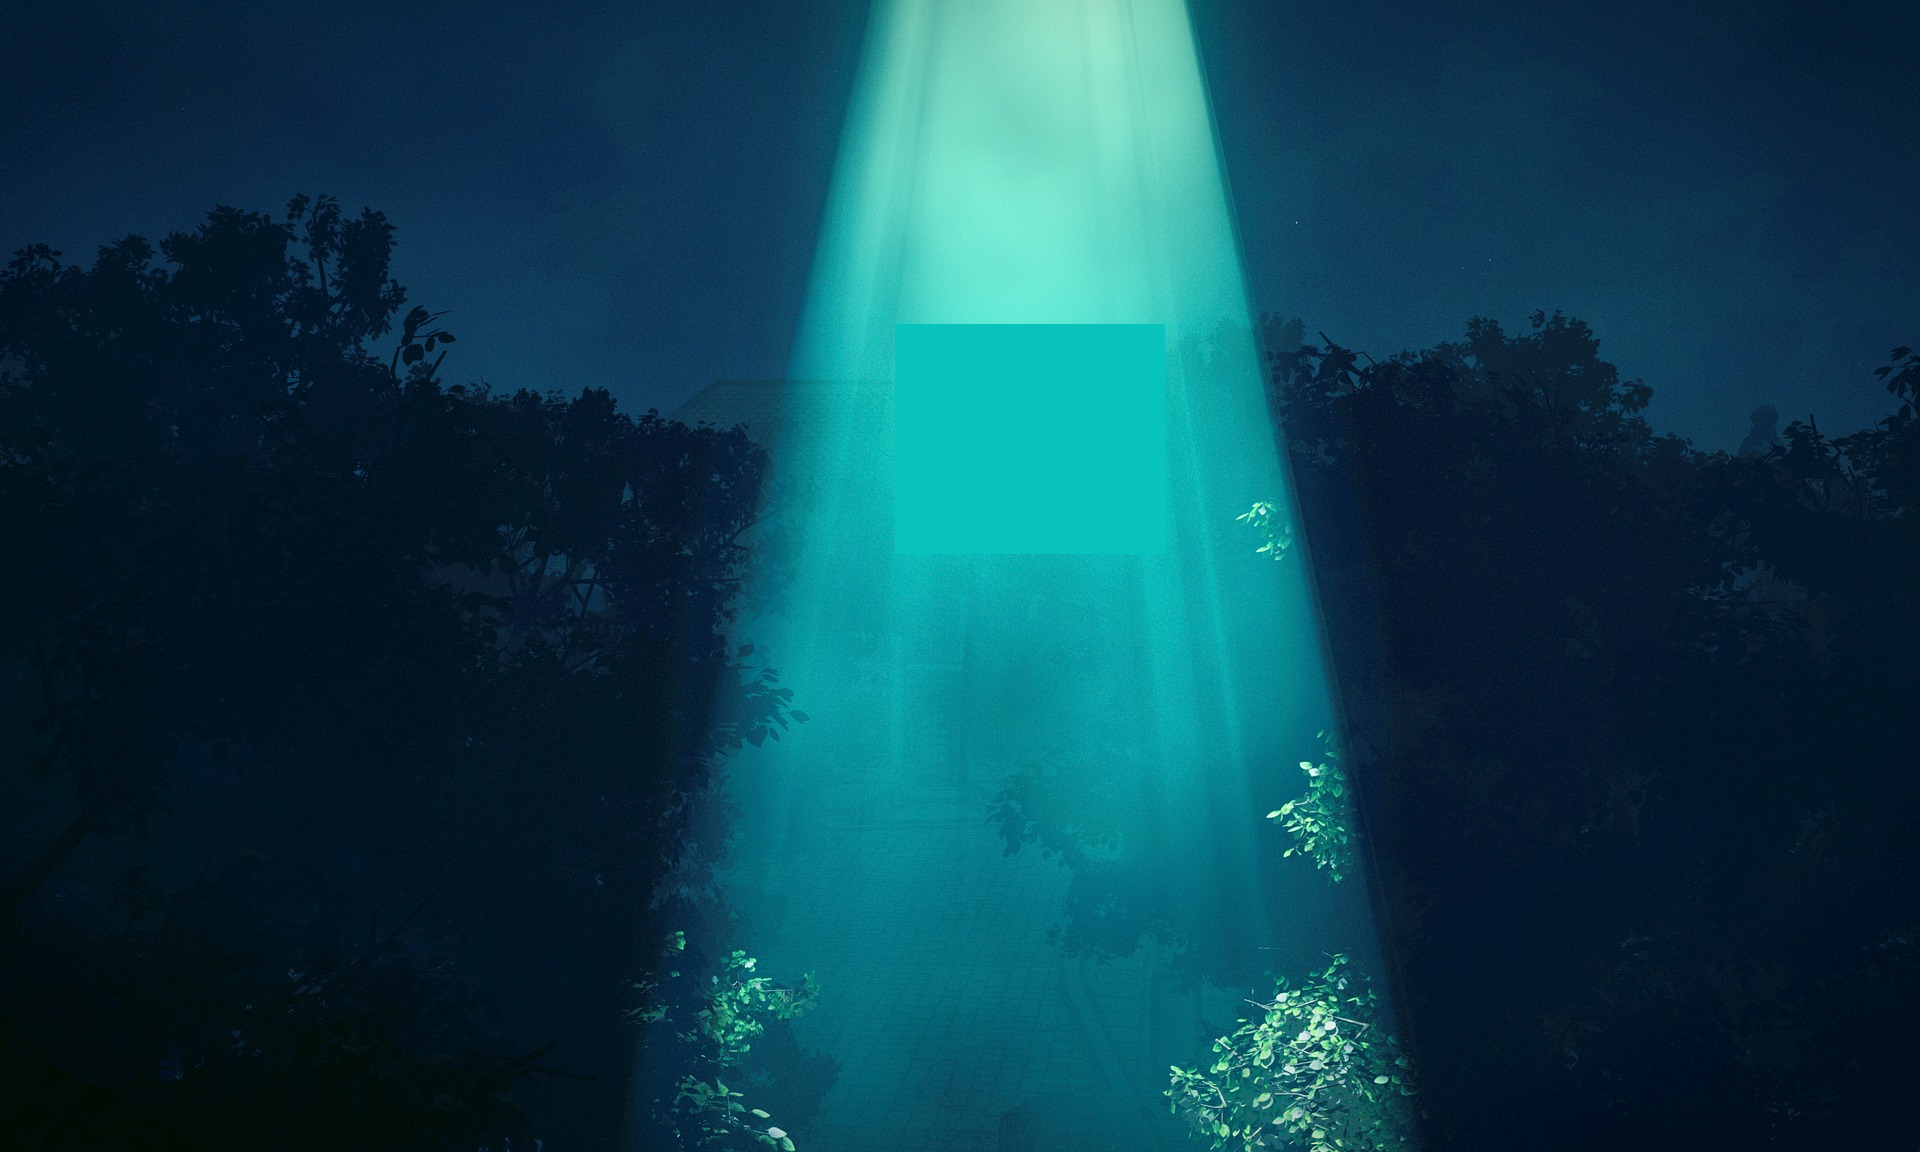
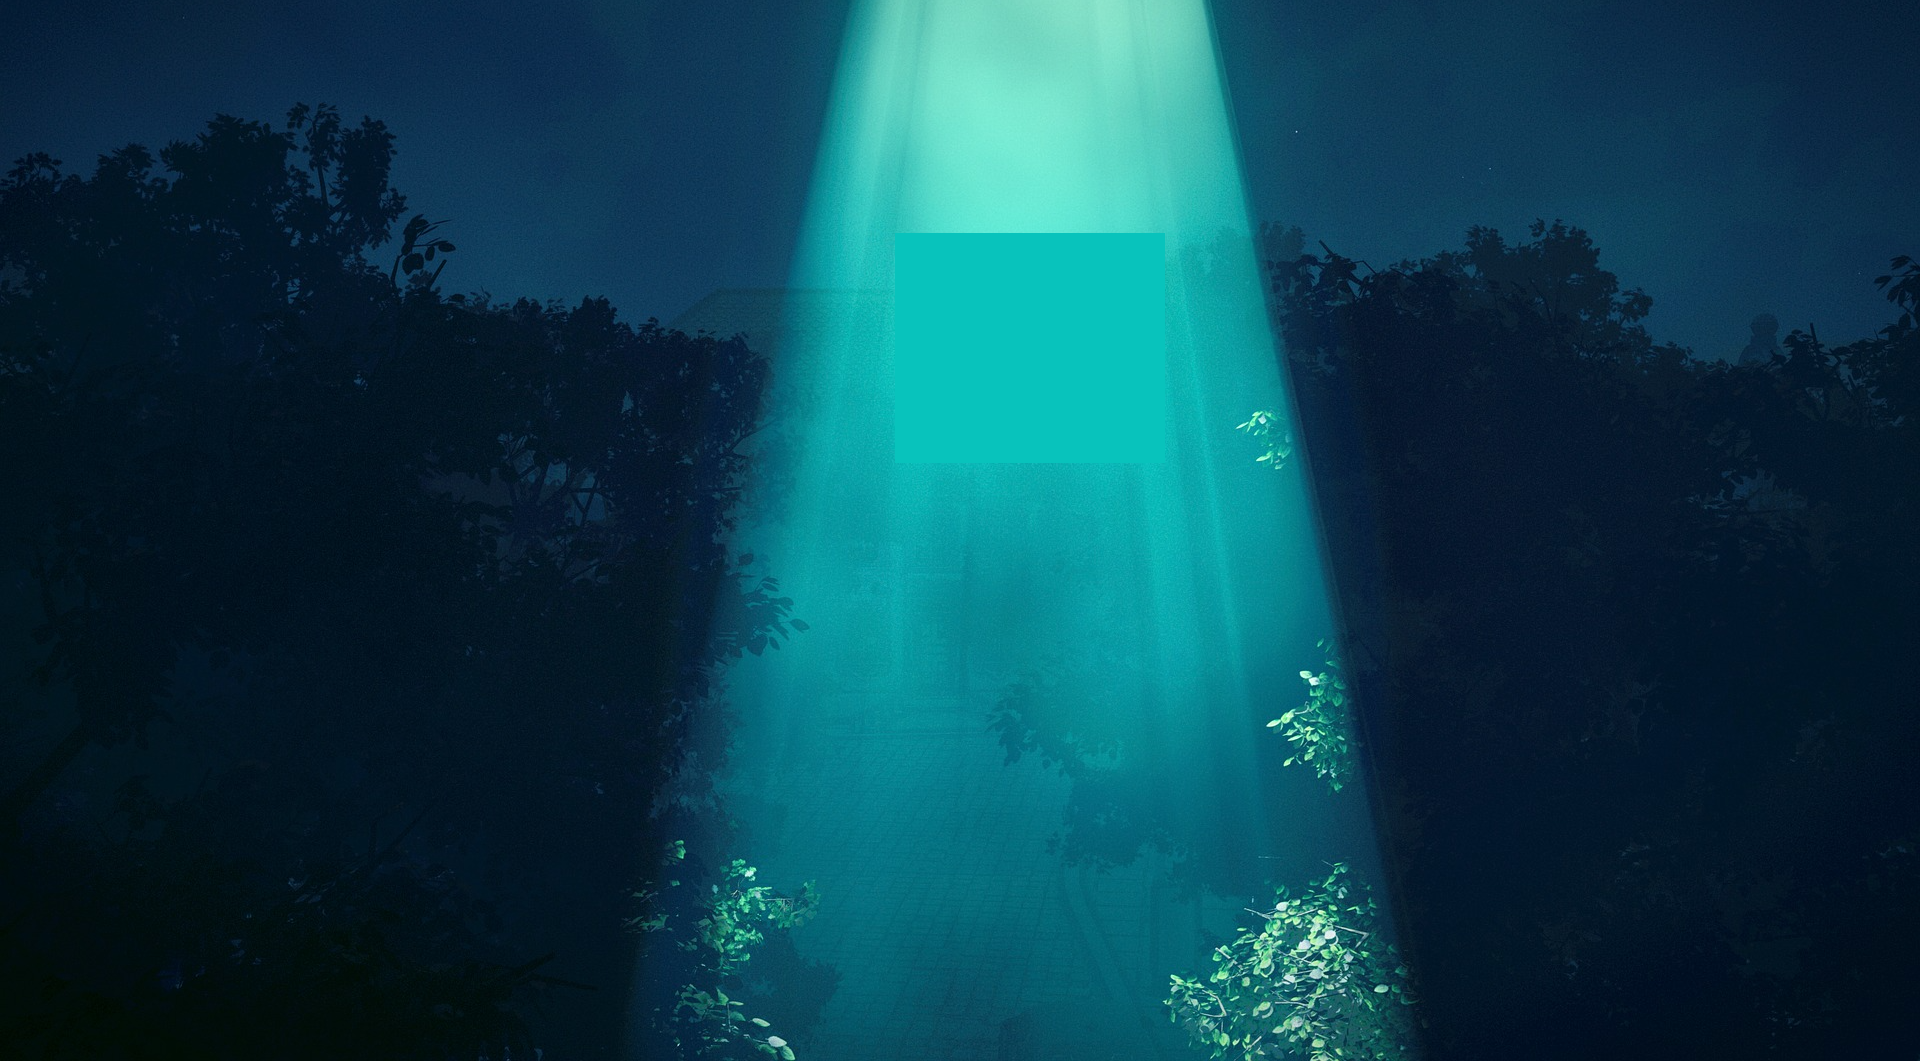
Again some styling changes

diff --git a/src/components/Landing/Landing.module.css b/src/components/Landing/Landing.module.css
@@ -1,28 +1,28 @@
 ._homepage {
     box-sizing: border-box;
     padding-top: 45vh;
-    padding-bottom: 5vh;
     
-    height: 100vh;
+    height: 100%;
     display: flex;
     resize: both;
     justify-content: center;
     align-items: center;
     scroll-snap-align: start;
-    width: 96w;
-    flex-direction: column;
-  
+    width: 100%;
+   
    
 
   
 }
 
 
+
 .back{
 
-    background: linear-gradient( rgba(0, 0, 0, 0), rgba(0, 0, 0, 0) ), url('/src/components/Landing/close1.jpg');
+    background: linear-gradient( rgba(0, 0, 0, 0.0), rgba(0, 0, 0, 0.0) ), url('/src/components/Landing/close1.jpg');
     background-size: 100% 100%;
     width: 100vw;
+    height: 100vh;
     -webkit-background-size : cover;
     -moz-background-size: cover;
     -o-background-size : cover;
@@ -50,29 +50,65 @@
     text-align: center;
 }
 
-/* Copied */
-._loader_sign {
-    /* display: flex;
-    justify-content: cente
-    align-items: center; */
-    /* background-image: radial-gradient(ellipse 50% 35% at 50% 50%,
-            #6b1839,
-            transparent); */
-    /* transform: translate(-50%, -50%); */
+.landing_heading{
     text-align: center;
+vertical-align: middle;
+line-height: 100vh; 
+
+}
+
+.head{
+    position: relative;
+    color: white;
+    letter-spacing: 15px;
+    font-family: Future;
+    font-family: 10rem;
+    font-size: 170px;
+    background: linear-gradient( rgba(0, 0, 0, 0.0), rgba(0, 0, 0, 0.0) );
+   
+
+}
+
+.anim{
+    animation: waviy 1s infinite;
+    animation-delay: 1s;
+}
+
+
+  @keyframes waviy {
+    0%,40%,100% {
+      transform: translateY(0)
+    }
+    20% {
+      transform: translateY(-10px)
+    }
+  }
+/* Copied */ /*
+._loader_sign {
+
+    text-align: center;
+
     color: whitesmoke;
     letter-spacing: 15px;
     box-sizing: content-box;
     font-family: Future;
     text-transform: uppercase;
-    font-size: 10rem;
+    font-size: 3rem;
     padding-top: 2%;
     z-index: 7;
     margin: 0%;
     padding-bottom: 0px;
     margin-bottom: 0px;
-    position: relative;
-    transition: float 2s infinite ease-in-out;
+    margin-left: 20%;
+        transition: float 2s infinite ease-in-out;
+    color: white;
+    letter-spacing: 13px;
+    font-family: Future;
+    text-transform: uppercase; 
+    font-size: 7rem;
+    z-index: 5;
+    height: fit-content;
+    width: fit-content;
 
 }
 
@@ -97,12 +133,29 @@
     }
   }
 
-
+*/
 
 .letter_a{
     font-family: Future;
-    font-size: 13rem;
+    font-size: 10.8rem;
+    font-size: 250px;
+}
+.blue1{
+    text-shadow: 0 0 0.6rem #ffe6ff, 0 0 1.5rem #121143,
+    -0.2rem 0.1rem 1rem #acd5ff, 0.2rem 0.1rem 1rem #acd5ff,
+    0 -0.5rem 2rem #0a0026, 0 0.5rem 3rem #0a0026;
+    font-size: 8rem;
+}
+
+
+
+.year{
+    font-family: Future;
+    font-size: 7.8rem;
     animation: blink;
+    text-shadow: 0 0 0.6rem #ffe6ff, 0 0 1.5rem #ff65bd,
+            -0.2rem 0.1rem 1rem #ff65bd, 0.2rem 0.1rem 1rem #ff65bd,
+            0 -0.5rem 2rem #ff2483, 0 0.5rem 3rem #ff2483;
 }
 
 
@@ -127,7 +180,7 @@
     font-size: 3rem !important;
     font-family: Future;
     text-transform: uppercase;
-    letter-spacing: 3px;
+    letter-spacing: 1px;
         margin-top: 0%;
     padding-top: 0%;
     box-sizing: border-box;

diff --git a/src/pages/Homepage/Homepage.module.css b/src/pages/Homepage/Homepage.module.css
@@ -37,8 +37,8 @@
 .About_Abacus {
     height: 100vh;
     width: 100vw;
-    margin-bottom: 30px;
-    margin-top: 15px; 
+
+
     display: flex;
     flex-direction: row;
  
@@ -78,7 +78,7 @@
 
   
   .left_container {
-  
+
     height: 100%;
     width: 40%;
     background-color:   #060017;
@@ -98,13 +98,12 @@
   
   .right_container {
       padding-left: 5%;
-     background-image: url(../../components/Landing/close.jpg);
-     background: rgba(0, 0, 0, 0.4);
+      background: rgba(0, 0,0, 0.45);
       box-shadow: 0 4px 30px rgba(0, 0, 0, 0.1);
-      backdrop-filter: blur(60px);
-      -webkit-backdrop-filter: blur(10px);
+      backdrop-filter: blur(20px);
+      -webkit-backdrop-filter: blur(5px);
+      
     width: 60%;
-    height: 100vh;
   }
   
   .left_content {
@@ -163,6 +162,10 @@
     -webkit-backdrop-filter: blur(15px);
     width: 100%;
     height: 100%;
+    background:  rgba( 0,0,0, 0.5);
+    box-shadow: 0 4px 30px rgba(0, 0, 0, 0.1);
+    backdrop-filter: blur(30px);
+    -webkit-backdrop-filter: blur(10px);
 }
 
 ._responsive {
@@ -187,6 +190,7 @@
     background-size:cover;
     background-repeat:no-repeat;
     background-attachment: fixed;
+    width: 100vw;
 }
 
 .bg_flip{
@@ -195,6 +199,7 @@
     background-size:cover;
     background-repeat:no-repeat;
     background-attachment: fixed;
+    width: 100vw;
 
 }
 
@@ -572,4 +577,25 @@ height:120px;
    
    
 
+    .underline {
+        
+        position: relative;
+       
+      }
       
+      .underline:after {
+        content: '';
+        width: 100%;
+        transform: scaleX(0);
+        height: 5px;
+        bottom: 0;
+        left: 0;
+        background-color: white;
+        transform-origin: bottom right;
+        transition: transform 0.25s ease-out;
+      }
+      
+      .underline:hover:after {
+        transform: scaleX(1);
+        transform-origin: bottom left;
+      }

diff --git a/src/pages/Homepage/Homepage.js b/src/pages/Homepage/Homepage.js
@@ -121,29 +121,11 @@ class Homepage extends Component {
           </div>
         </div>
 
-        {/* Child Class */}
-        {/* <div className={`${styles._homepage} ${styles._responsive} ${styles.bg}`}>
         
-           <div class="container justify-content-center align-self-center ">
-             <div class="row justify-content-center align-self-center">
-               <div class="col-lg-6 col-md-12 col-sm-12 col-xs-12">
-                 <FadeInSection>
-               <div class="embed-responsive embed-responsive-21by9">
-          <iframe src="https://www.youtube.com/embed/W0eDjWr3ATI" frameborder="0" allow="accelerometer; autoplay; clipboard-write; encrypted-media; gyroscope; picture-in-picture" allowfullscreen></iframe>
-</div> </FadeInSection>
-               </div>
-               <div class="col-lg-6 col-md-12 col-sm-12 col-xs-12">
-               <GlowCard props={{degree: "25deg",title:"Abacus'21",content:"CSEA takes immense pleasure in organizing Abacus’21. This version is going to be one of its kind - a symposium completely organized online. We operate with a vision – to bring together students from multiple engineering colleges globally and give them a chance to demonstrate their technical prowess, ignite their passion for learning and to win exciting prizes and internships. Grab this opportunity and win cash prizes, Intern Opportunities , T shirts and many surprising prizes."}} />    
-                 </div>
-             </div>
-           </div>
-            </div> */}
-
-        {/* Child Class */}
 
         <div className={`${styles.bg}`}>
           <div className={`${styles.blur}`}>
-            <div className="text-center mt-0">
+            <div className="text-center ">
               <Heading text="Sponsors" fontSize="40px" />
               <br></br>
               <br></br>

diff --git a/src/components/Landing/Landing.js b/src/components/Landing/Landing.js
@@ -13,10 +13,18 @@ class Landing extends Component {
         }
     }
 
-
+ 
     render() {
         return (            <div className={`${styles.back}`}>
             <div className={`${styles._homepage}`} >
+            
+            <div className={`${styles.landing_heading} ${styles.head}`} >
+                <h1 className={`${styles.head}`}><span className={`${styles.letter_a} ${styles.anim}`}>A</span>BACUS '22</h1>
+                <h2>March 25 and 26</h2>
+            </div>
+            {/*
+
+            
                     <div className={`${styles._loader_sign}`}>
                         <span className={`${styles.letter_a} ${styles.glow}`}>a</span>
                         <span className={`${styles.flickerStart}`}>b</span>
@@ -28,7 +36,7 @@ class Landing extends Component {
                     </div>
                     <div className={`${styles.date}`}>
                             March 25,26,27
-                    </div> {/*
+                    </div> 
                 <HashLink to="/homepage##" spy="true" ><i className=" fa fa-angle-double-down"></i></HashLink> */}
 
                 
